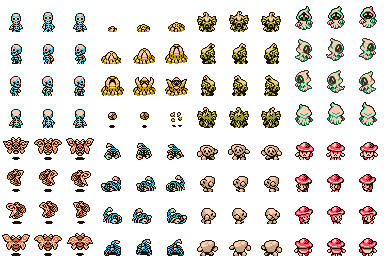
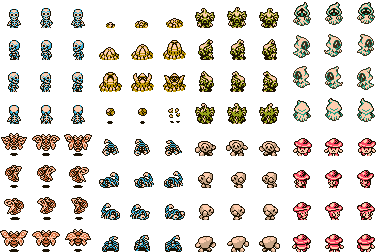
Fix sprite size of Monsters1.png

diff --git a/src/scenes/Preloader.ts b/src/scenes/Preloader.ts
@@ -178,8 +178,10 @@ export class Preloader extends Scene {
 		});
 		this.load.image("bones", "bones_transparent.png");
 		this.load.spritesheet("monsters1", "Monsters1.png", {
-			frameWidth: 32,
-			frameHeight: 32,
+			frameWidth: 28,
+			frameHeight: 28,
+			margin: 0,
+			spacing: 4,
 		});
 		this.load.spritesheet("monsters2", "Monsters2.png", {
 			frameWidth: 32,
